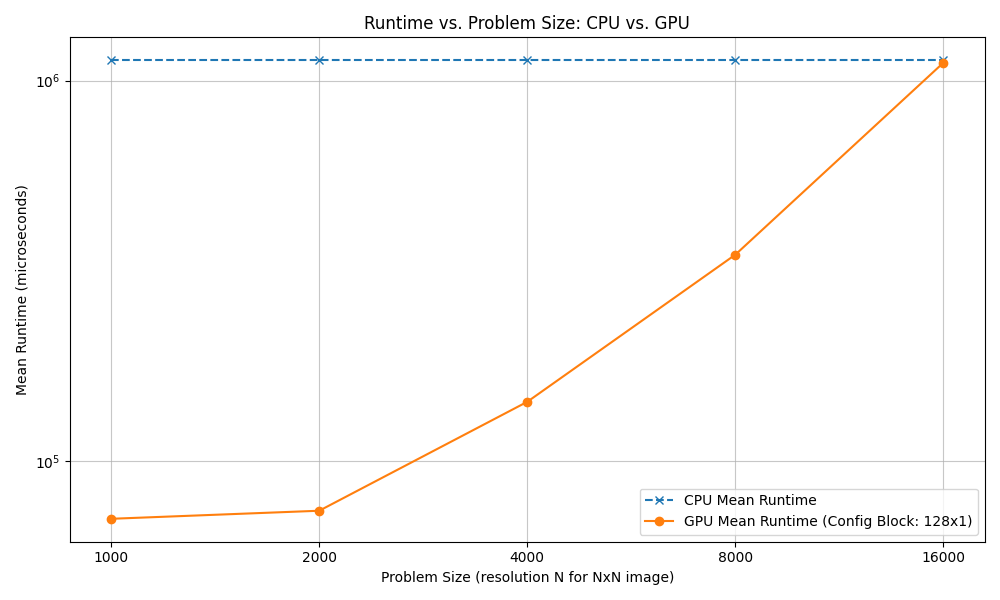
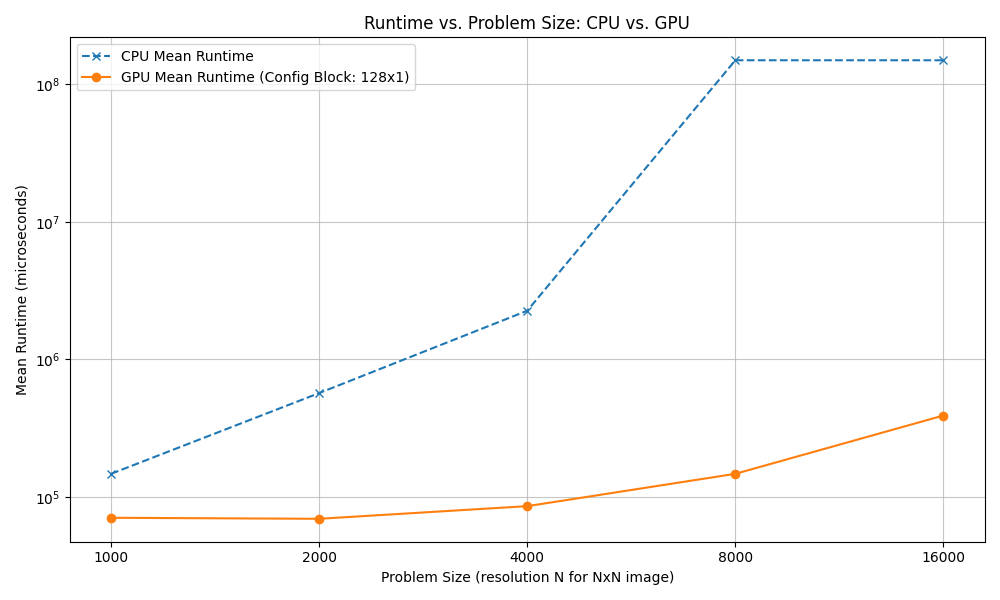
Fix CSV file extension in getResults.bat and update timeout values in benchmark_cpu.py; update binary plots for runtime and speedup comparisons

diff --git a/julia_cuda/benchmark_cpu.py b/julia_cuda/benchmark_cpu.py
@@ -16,8 +16,8 @@ timeout_seconds_map = {
     1000: 180,  # 3 minutes
     2000: 300,  # 5 minutes
     4000: 600,  # 10 minutes
-    8000: 15,   # 15 seconds (as per original script's quick timeout for larger sizes)
-    16000: 15   # 15 seconds (as per original script's quick timeout for larger sizes)
+    8000: 30,   # 15 seconds (as per original script's quick timeout for larger sizes)
+    16000: 60   # 15 seconds (as per original script's quick timeout for larger sizes)
 }
 # Runtime to record (in microseconds) if a timeout occurs.
 # Original script used 150,000,000 us.
